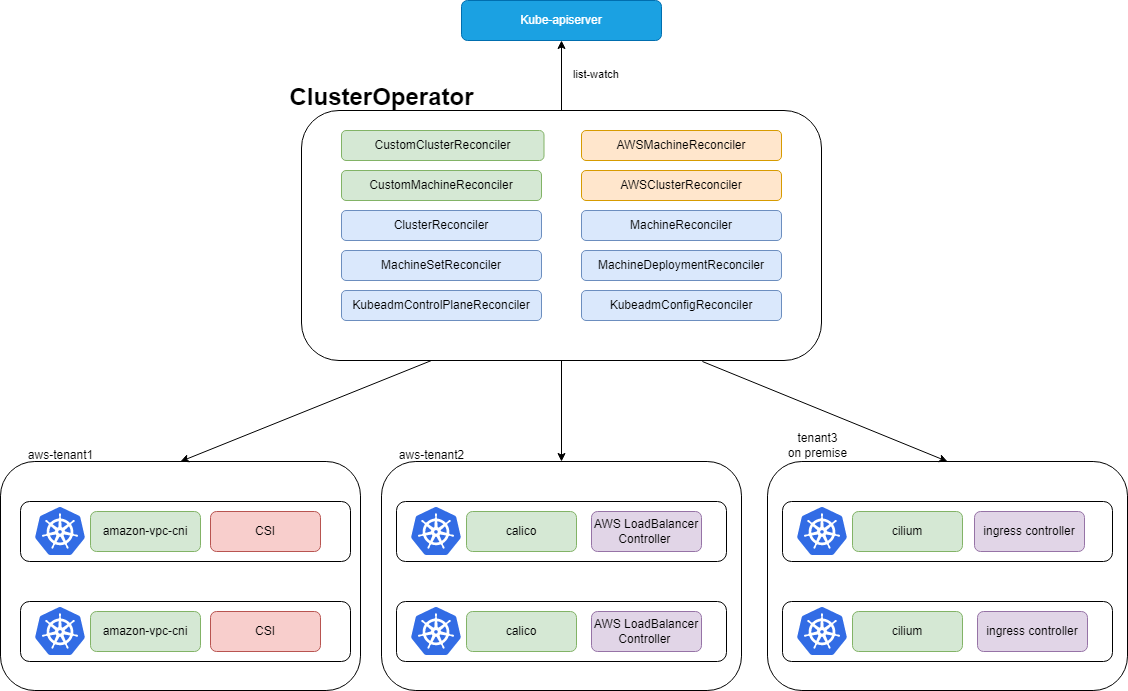
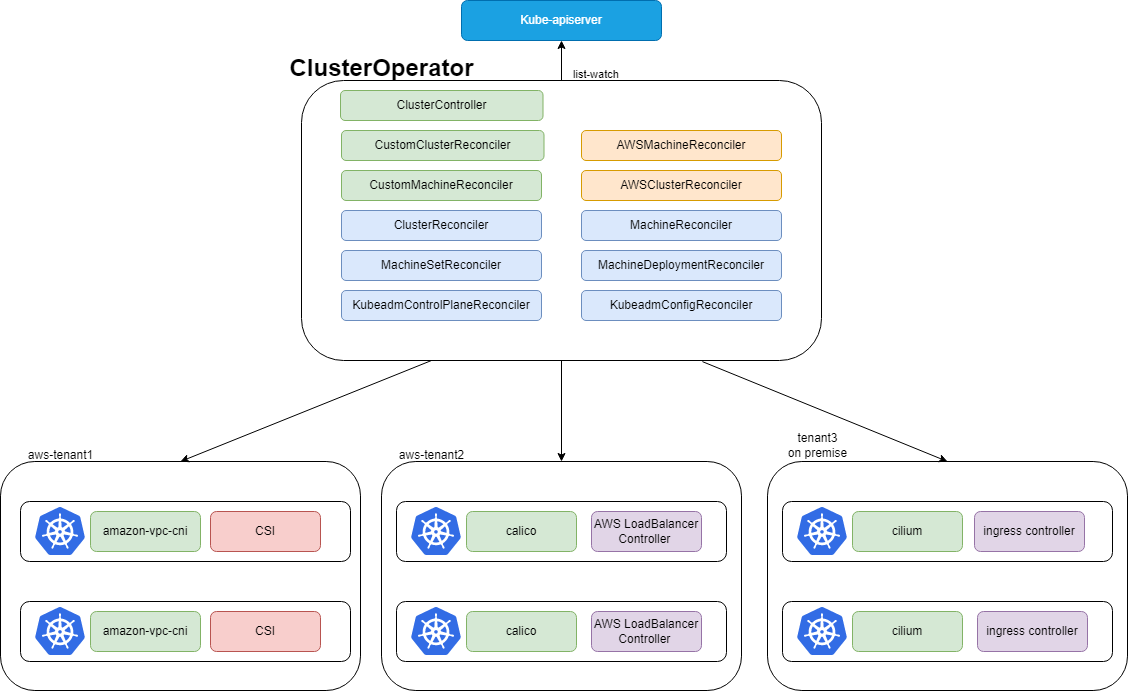
update docs

Changed region(s): [[0.2482, 0.0912, 0.4965, 0.1823]]

diff --git a/docs/content/en/docs/cluster-operator/_index.md b/docs/content/en/docs/cluster-operator/_index.md
@@ -13,13 +13,12 @@ Kurator cluster operator provide an easy way to get your Kubernetes cluster up a
 - Manage your cluster plugins, such as CNI, CSI and Ingress controller
 
 ## Concepts
-
-1. Cluster API
-
-
-2. Cluster Plugin
-
-
+  
+- Kurator will provision all necessary resources (e.g. vpc, iam profile etc) for a Cluster;
+- After Cluster API resources created, controllers imported from Custer API projects will provision the Kubernetes cluster;
+- After cluster is provisioned, Kurator will install plugins for it;
+- Once all plugins are properly installed, the cluster will be ready.
+      
 ## Architecture
 
 The overall architecture of Kurator cluster operator is shown as below:
@@ -31,5 +30,5 @@ The overall architecture of Kurator cluster operator is shown as below:
 The Kurator Cluster Operator runs various controllers, which watch cluster api objects and then talk to the underlying clusters' API servers to create Kubernetes clusters.
 
 1. Cluster API controllers: imports from [Cluster API](https://cluster-api.sigs.k8s.io/introduction.html) projects and uses Kubernetes-style APIs and patterns to automate cluster lifecycle management for platform operators.
-2. Plugin controller: watches ClusterPlugin objects. When a ClusterPlugin object is added, the controller will apply resources to target cluster.
+2. Kurator Cluster controller: watches Kurator Cluster API objects. When a Cluster object is added, the controller will provision target cluster.
 
